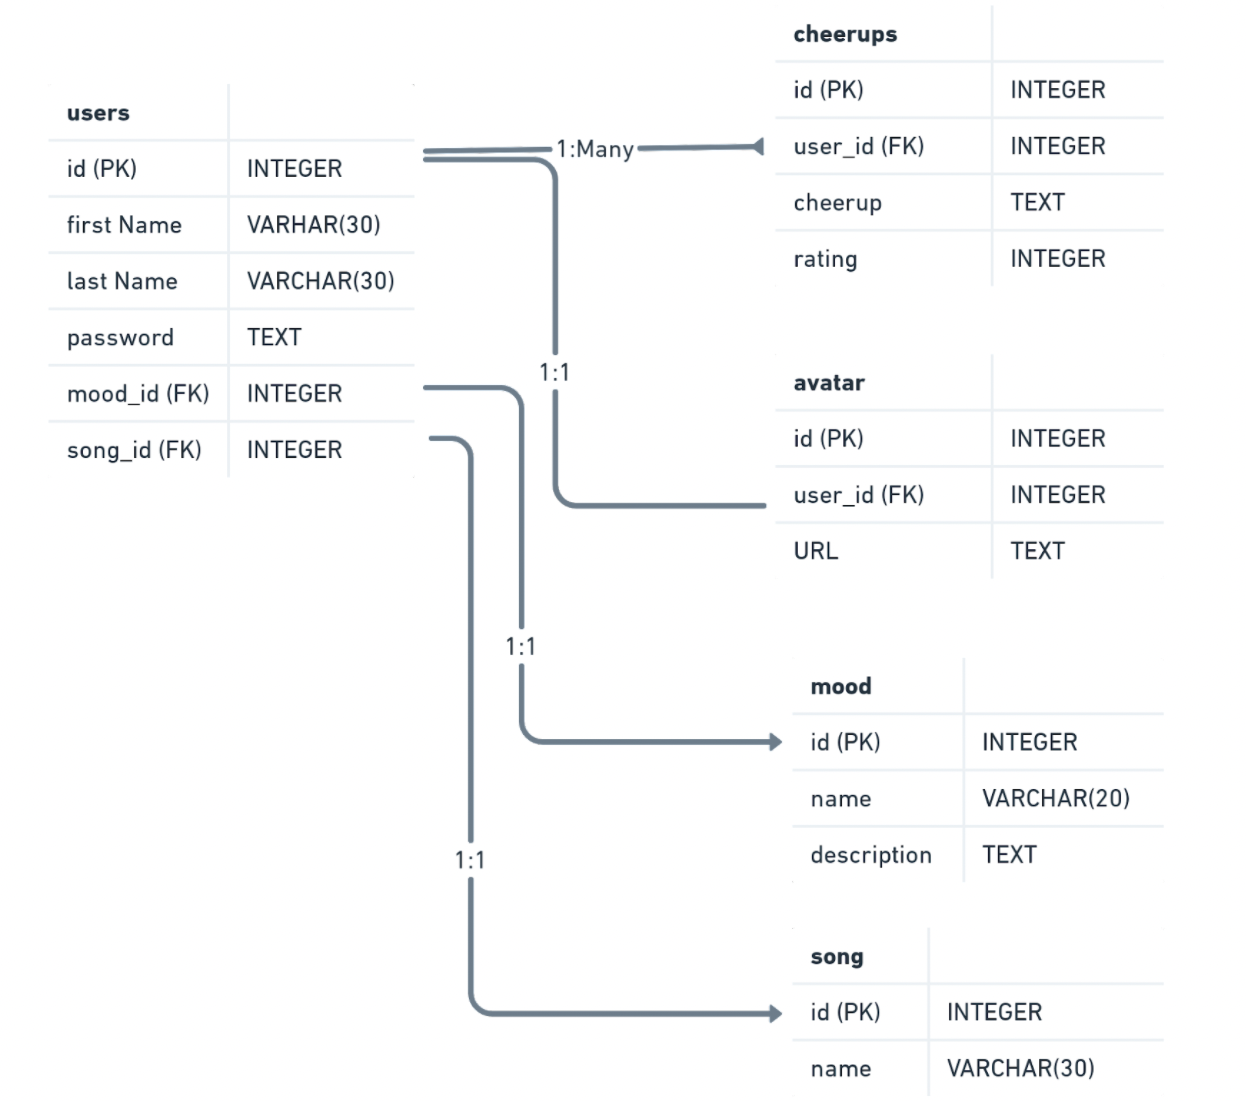
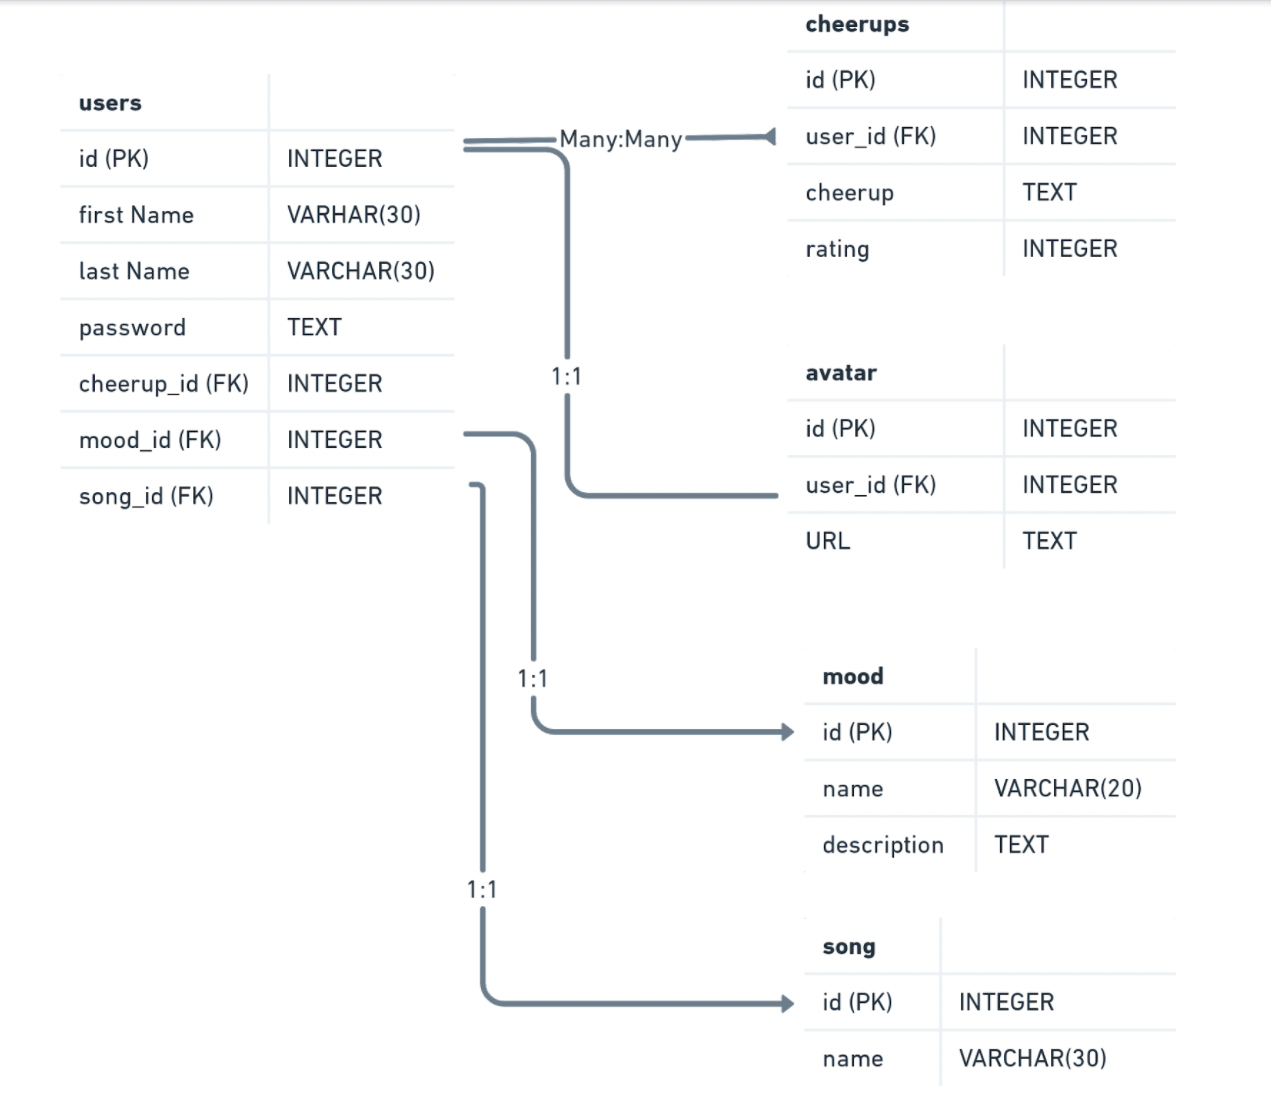
update readme and database diagrams

diff --git a/README.md b/README.md
@@ -1,4 +1,4 @@
-# Cheerups
+# Cheer you up
 
 General Assembly Software Engineering Immersive - Project 2
 
@@ -8,7 +8,7 @@ Deployment: [here](https://secret-wildwood-49670.herokuapp.com/)
 
 The world is a depressing place.
 
-Your task is to create an app that will allow people to create and share "cheerups" - happy little quips to brighten other people's' days. Cheerups will be small - limited to 139 characters. Members will be able to promote Cheerups that they like and maybe even boost the reputation of the Cheerupper.
+Your task is to create an app that will allow people to create and share "cheerups" through the `Cheer you up` web app - happy little quips to brighten other people's' days. Cheerups will be small - limited to 139 characters. Members will be able to promote Cheerups that they like and maybe even boost the reputation of the Cheerupper.
 
 ## Setup instructions
 ```
@@ -52,12 +52,20 @@ MVP Relational Database Diagram
 * [API] Allocate a song to their profile ('currently on repeat')
 * [API] Add a random joke of the day as an easter egg somewhere on the page 
 * Allow users to follow other users cheerups!!
+* Allow public and private cheerups
 
 ![Additional Features Relational Diagram](/static/images/readme/additional-features-db-diagram.png)
 
 
-UI Design:
+# UI Design:
 TBC
 
-Story Boards:
+Pages 
+* Home (main cheerups)
+* Login 
+* Sign Up
+* Profile page (both for logged in users and public)
+* Cheerup post page (might use a modal)
+
+# Story Boards:
 TBC
